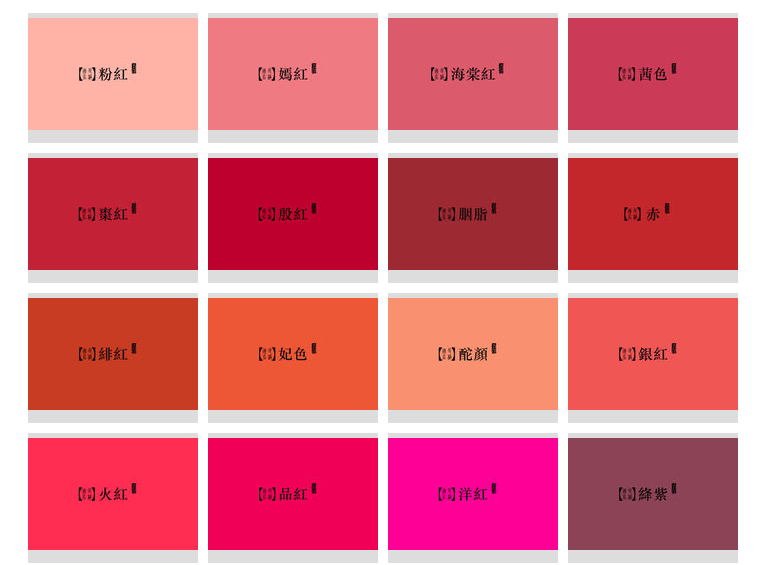
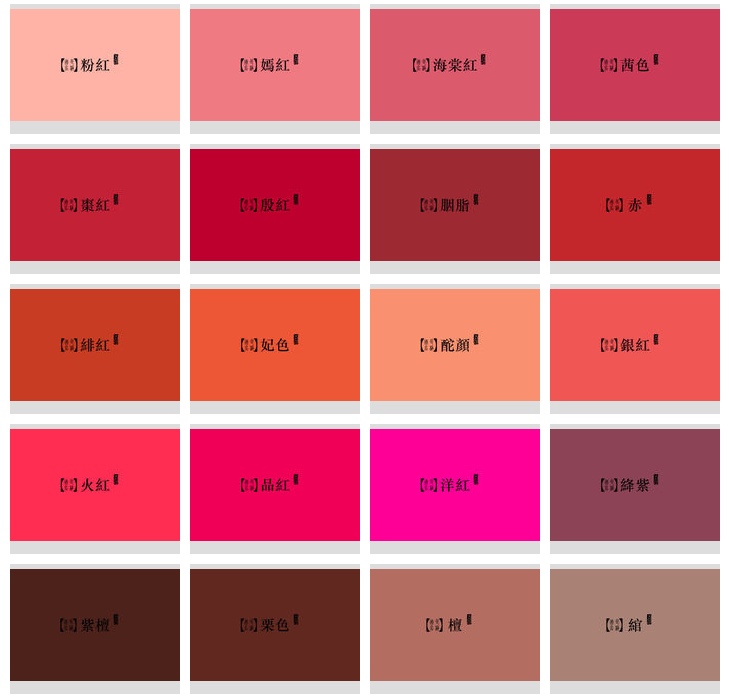
add new colour reference screenshots

diff --git a/README.md b/README.md
@@ -197,4 +197,7 @@ Traditional Chinese Colours
 ================
 **TradtitionalChineseColours.h** is an extension for colours specifically defined in traditional Chinese paintings. 
 Each colour is commented with Chinese names by the end of the code line, so as to refer the images below.
-![ScreenShot](https://raw.github.com/aceisScope/Colours-for-iOS/master/Screenshots/chinese-reds.png)
+![ScreenShot](https://raw.github.com/aceisScope/Colours-for-iOS/master/Screenshots/chinese-reds.png)![ScreenShot](https://raw.github.com/aceisScope/Colours-for-iOS/master/Screenshots/chinese-yellows.png)
+![ScreenShot](https://raw.github.com/aceisScope/Colours-for-iOS/master/Screenshots/chinese-browns.png)![ScreenShot](https://raw.github.com/aceisScope/Colours-for-iOS/master/Screenshots/chinese-greens.png)
+![ScreenShot](https://raw.github.com/aceisScope/Colours-for-iOS/master/Screenshots/chinese-blues.png)![ScreenShot](https://raw.github.com/aceisScope/Colours-for-iOS/master/Screenshots/chinese-purples.png)
+![ScreenShot](https://raw.github.com/aceisScope/Colours-for-iOS/master/Screenshots/chinese-blacks.png)
